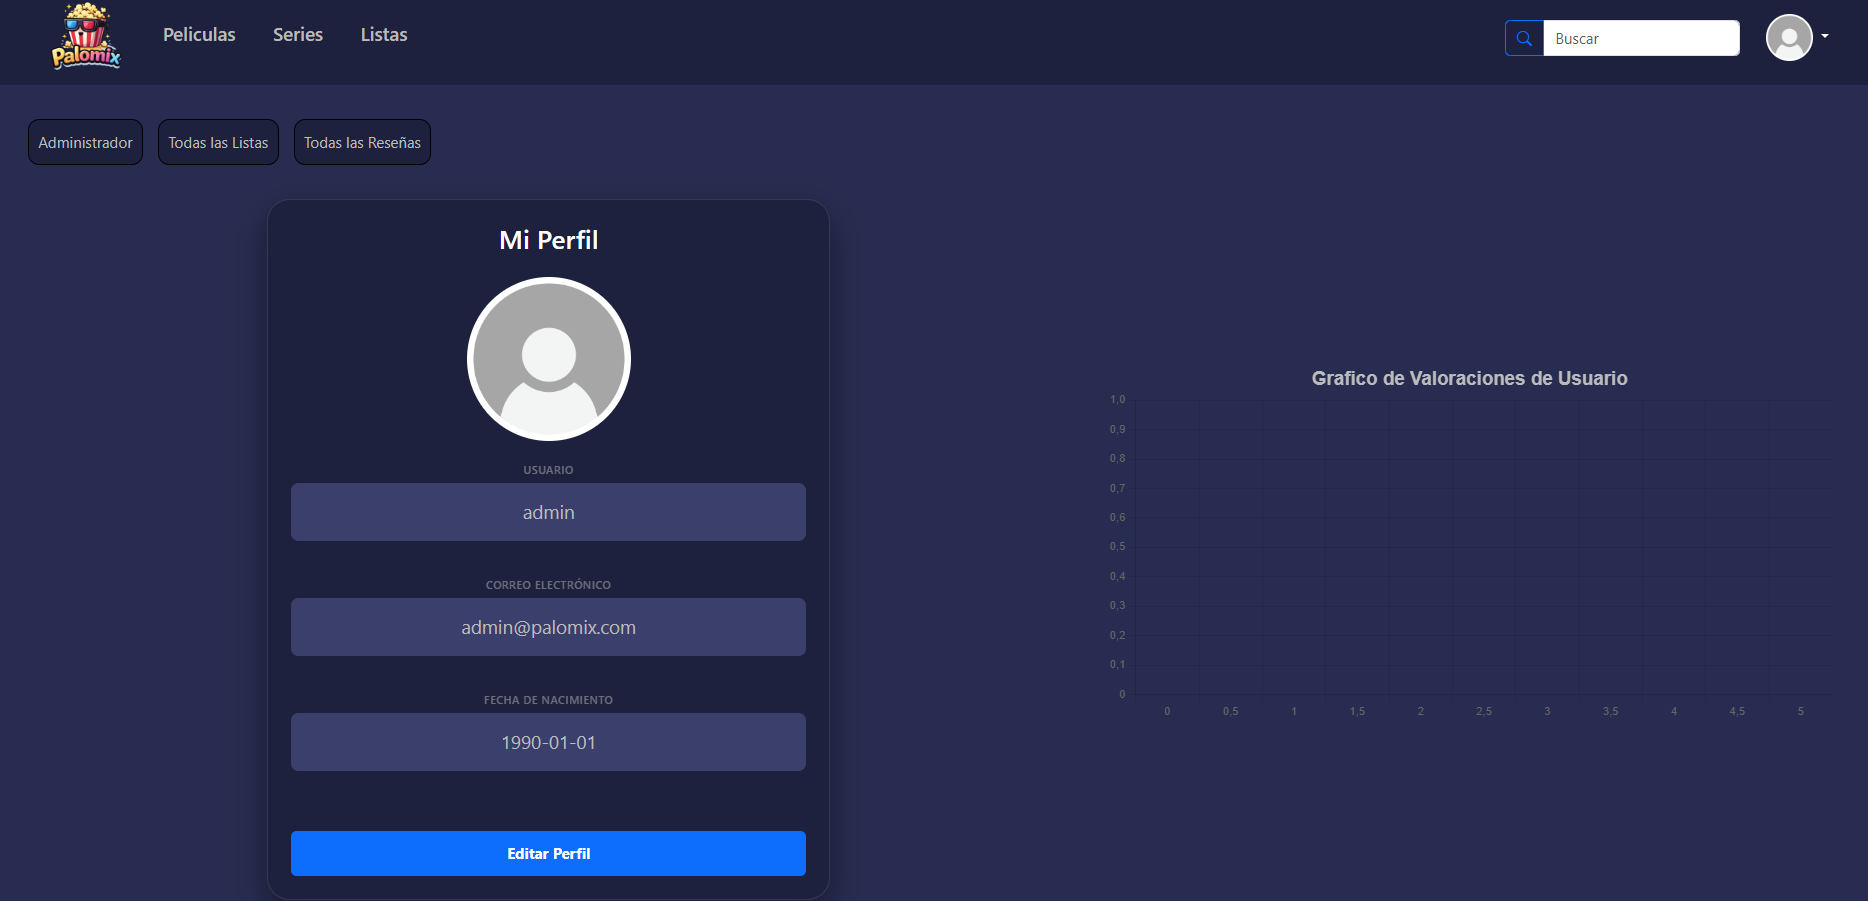
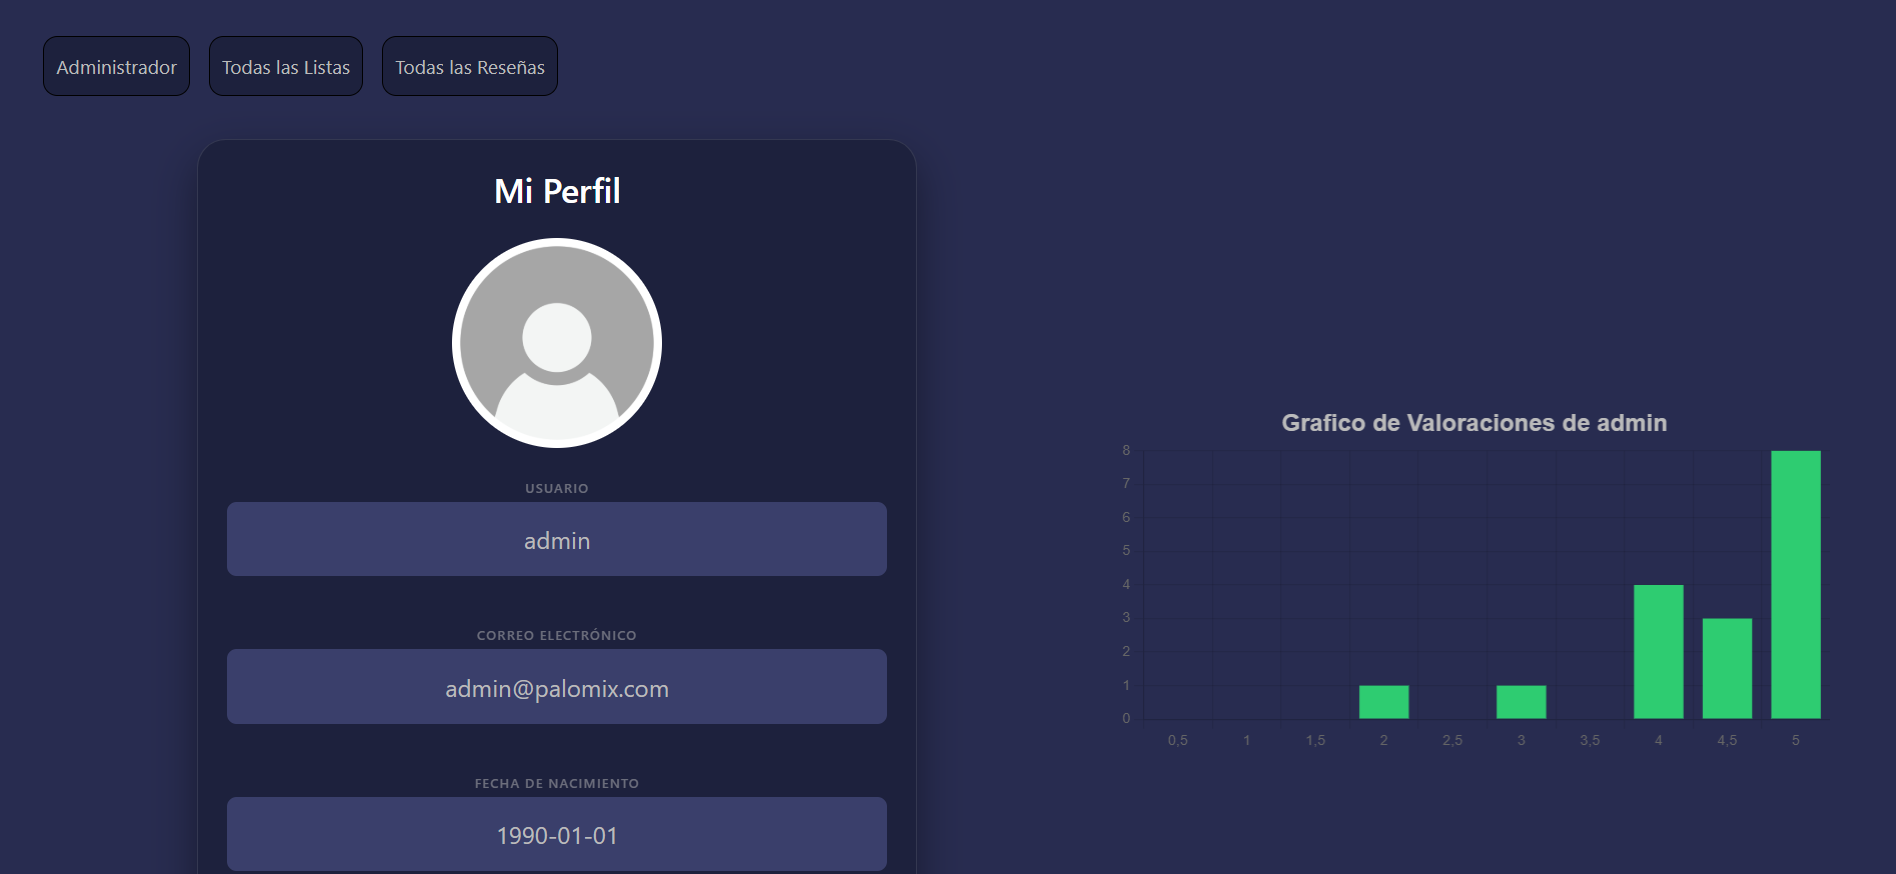
last touches

diff --git a/practica2/src/main/resources/templates/lists.html b/practica2/src/main/resources/templates/lists.html
@@ -13,11 +13,12 @@
             </div>
             <div class="films">
                 {{#lists}}
-                <div class="card">
-                    <a href="/lists/{{listsId}}">
+                <div class="card text-center">
+                    <a href="/lists/{{listsId}}" class="text-decoration-none">
                         <img src="{{firstImage}}" alt="{{listName}}">
                         <h5>{{listName}}</h5>
                         <p>{{size}} elementos</p>
+                        <p class="mb-0text-white small text-end">Por: {{authorName}}</p>
                     </a>
                 </div>
                 {{/lists}}

diff --git a/practica2/src/main/java/es/code/urjc/practica2/service/ListsService.java b/practica2/src/main/java/es/code/urjc/practica2/service/ListsService.java
@@ -52,6 +52,7 @@ public class ListsService {
         map.put("listsId", list.getListsId());
         map.put("listName", list.getListName());
         map.put("size", list.getFilmographyList().size());
+        map.put("authorName", list.getListOwner() != null ? list.getListOwner().getAccountName() : "Sistema");
 
         if (!list.getFilmographyList().isEmpty()) {
             Filmography first = list.getFilmographyList().get(0);
@@ -66,6 +67,7 @@ public class ListsService {
     // Best rated lists
     public List<Map<String, Object>> getBestRatedLists() {
         return findAllUserList().stream()
+                .filter(l -> !l.getFilmographyList().isEmpty())
                 .sorted(Comparator.comparingDouble(this::getListAverageRating).reversed())
                 .limit(10)
                 .map(this::convertToMap)
@@ -75,6 +77,7 @@ public class ListsService {
     // Worst rated lists
     public List<Map<String, Object>> getWorstRatedLists() {
         return findAllUserList().stream()
+                .filter(l -> !l.getFilmographyList().isEmpty())
                 .sorted(Comparator.comparingDouble(this::getListAverageRating))
                 .limit(10)
                 .map(this::convertToMap)
@@ -84,6 +87,7 @@ public class ListsService {
     // Longest lists (most items)
     public List<Map<String, Object>> getLongestLists() {
         return findAllUserList().stream()
+                .filter(l -> !l.getFilmographyList().isEmpty())
                 .sorted((a, b) -> Integer.compare(
                         b.getFilmographyList().size(),
                         a.getFilmographyList().size()))
@@ -95,6 +99,7 @@ public class ListsService {
     // Lists with longest movies (average duration)
     public List<Map<String, Object>> getLongestMoviesLists() {
         return findAllUserList().stream()
+                .filter(l -> !l.getFilmographyList().isEmpty())
                 .sorted(Comparator.comparingDouble(this::getAverageMovieDuration).reversed())
                 .limit(10)
                 .map(this::convertToMap)
@@ -104,6 +109,7 @@ public class ListsService {
     // Lists with series with most seasons
     public List<Map<String, Object>> getSeriesWithMostSeasons() {
         return findAllUserList().stream()
+                .filter(l -> !l.getFilmographyList().isEmpty())
                 .sorted(Comparator.comparingInt(this::getAverageSeriesSeasons).reversed())
                 .limit(10)
                 .map(this::convertToMap)
